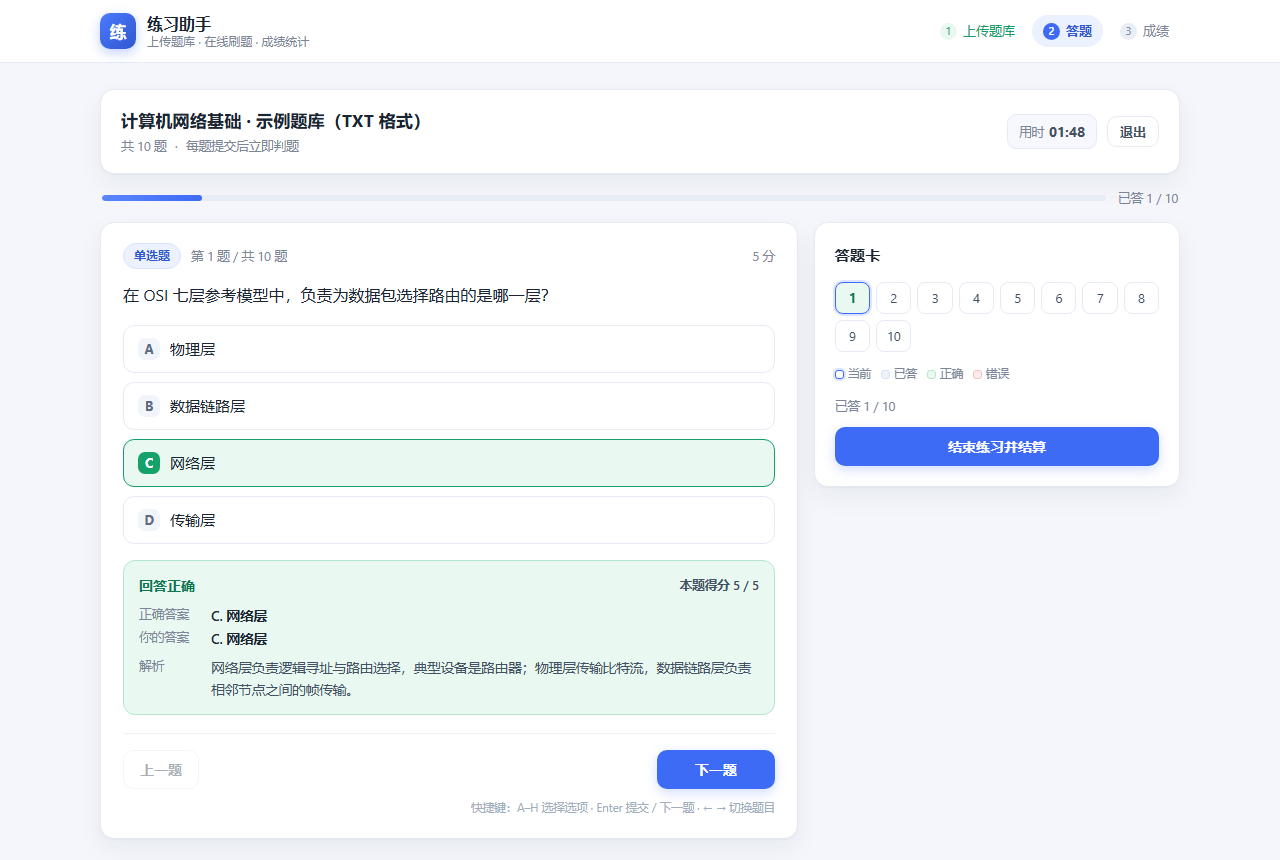
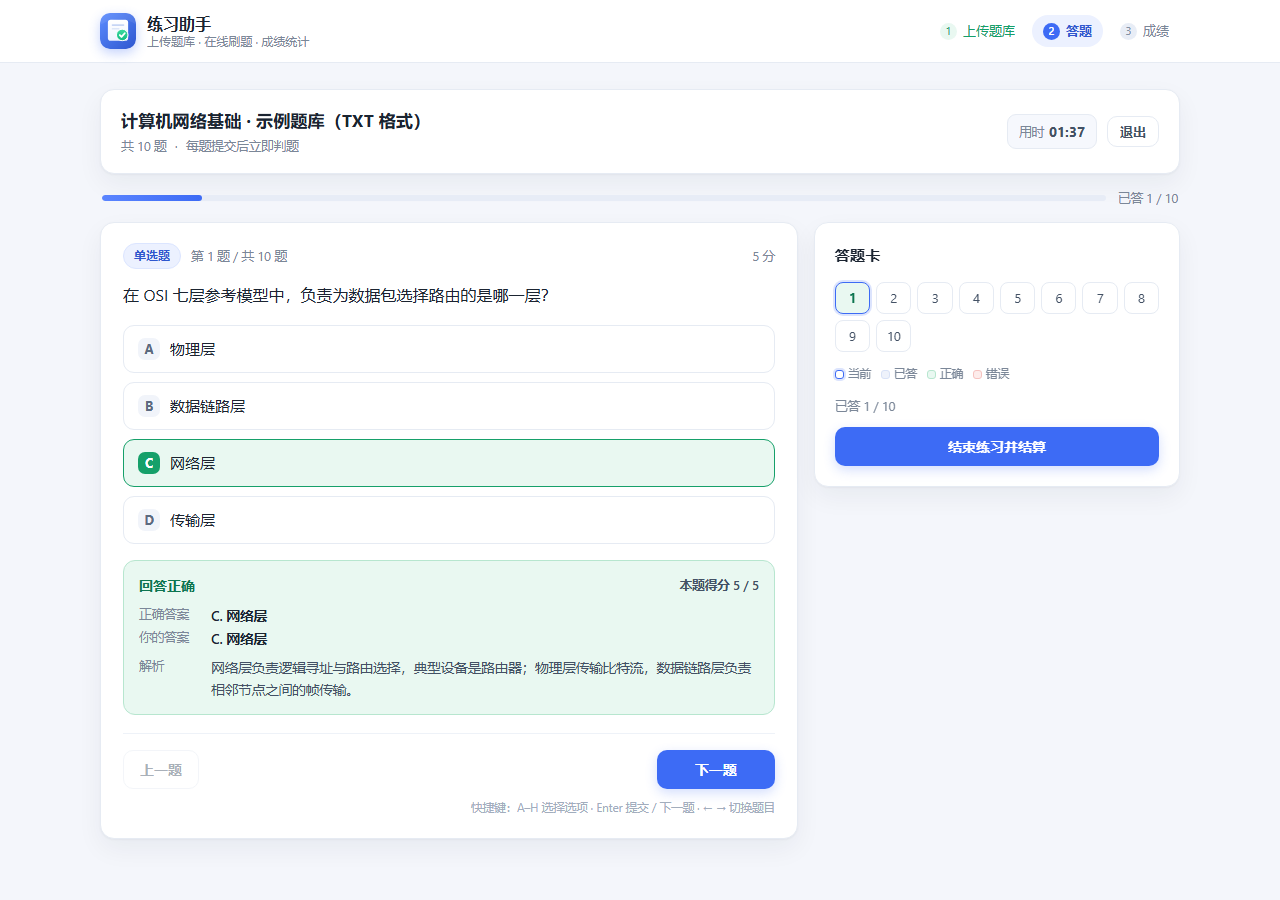
feat: 随机出题增加「选项顺序也随机打乱」附属项，更换站点图标，移除模板下载按钮
- 出题选「随机打乱」后解锁附属项，勾选则每题选项重新排列并按 A/B/C… 重新编号，答案字母同步映射，判题结果不变
- 练习页顶部标注「题目随机 · 选项乱序」，让设置生效可见
- 打乱在题目副本上进行，不污染原题库，重新练习/重做错题可反复打乱
- 站点图标由单字「练」改为「答题卡 + 对勾徽章」图形标，顶栏与 favicon 共用
- 删除「下载 JSON 模板 / 下载 TXT 模板」两个按钮及其下载逻辑，格式说明保留在页面内和 README
- 按新 UI 重拍三张 README 预览图

diff --git a/js/app.js b/js/app.js
@@ -66,6 +66,7 @@
     current: 0,
     mode: 'instant',     // instant | defer
     order: 'seq',
+    shuffleOptions: false, // 随机打乱题目的同时，是否也打乱每题选项顺序
     startTs: 0,
     elapsed: 0,
     timerId: null,
@@ -493,11 +494,54 @@
     showView('result');
   }
 
+  /** 练习用的题目副本：选项与答案都独立一份，便于单独打乱 */
+  function cloneQuestion(q) {
+    return {
+      id: q.id,
+      no: q.no,
+      type: q.type,
+      stem: q.stem,
+      options: (q.options || []).map((o) => ({ key: o.key, text: o.text })),
+      answers: q.type === 'blank' ? q.answers.map((alts) => alts.slice()) : q.answers.slice(),
+      explanation: q.explanation,
+      score: q.score
+    };
+  }
+
+  /**
+   * 打乱单题的选项顺序，并按新顺序重新编号 A/B/C…
+   * 答案字母同步映射，保证判题结果不变。判断题与填空题不动。
+   */
+  function shuffleQuestionOptions(q) {
+    if (q.type !== 'single' && q.type !== 'multiple') return;
+    if (!q.options || q.options.length < 2) return;
+
+    shuffle(q.options);
+
+    const oldToNew = {}; // 原字母 → 新字母
+    q.options.forEach((opt, i) => {
+      const newKey = String.fromCharCode(65 + i);
+      oldToNew[opt.key] = newKey;
+      opt.key = newKey;
+    });
+    q.answers = q.answers.map((k) => oldToNew[k] || k);
+  }
+
+  function modeSummary(shuffleOpt) {
+    const tags = [S.mode === 'instant' ? '每题提交后立即判题' : '全部作答后统一判题'];
+    if (S.order === 'random') tags.push(shuffleOpt ? '题目随机 · 选项乱序' : '题目随机');
+    return tags.join(' · ');
+  }
+
   function startPractice(list, label) {
     if (!list || !list.length) return;
 
-    S.questions = list.slice();
+    // 深拷贝一份，避免打乱选项时污染原始题库（「重新练习」还要用）
+    const shuffleOpt = S.order === 'random' && S.shuffleOptions;
+    S.questions = list.map(cloneQuestion);
     if (S.order === 'random') shuffle(S.questions);
+    if (shuffleOpt) S.questions.forEach(shuffleQuestionOptions);
+
     S.responses = S.questions.map(P.makeEmptyResponse);
     S.results = S.questions.map(() => null);
     S.current = 0;
@@ -505,7 +549,7 @@
 
     $('#practice-title').textContent = label || (S.bank ? S.bank.title : '练习');
     $('#practice-meta').textContent = '共 ' + S.questions.length + ' 题';
-    $('#mode-label').textContent = S.mode === 'instant' ? '每题提交后立即判题' : '全部作答后统一判题';
+    $('#mode-label').textContent = modeSummary(shuffleOpt);
 
     S.startTs = Date.now();
     startTimer();
@@ -717,16 +761,6 @@
 
     $('#btn-load-sample').addEventListener('click', loadSample);
 
-    $('#btn-dl-json').addEventListener('click', () => {
-      if (!window.QB_SAMPLES) return;
-      download('题库模板.json', JSON.stringify(window.QB_SAMPLES.json, null, 2), 'application/json');
-    });
-
-    $('#btn-dl-txt').addEventListener('click', () => {
-      if (!window.QB_SAMPLES) return;
-      download('题库模板.txt', window.QB_SAMPLES.txt, 'text/plain');
-    });
-
     $('#btn-dl-guide').addEventListener('click', () => {
       const src = document.getElementById('guide-source');
       if (!src) return;
@@ -737,9 +771,25 @@
     $$('input[name="mode"]').forEach((el) =>
       el.addEventListener('change', () => { if (el.checked) S.mode = el.value; })
     );
+
+    // 选项乱序是「随机打乱」的附属项，只在随机出题时可用
+    const chkShuffleOpts = $('#chk-shuffle-options');
+    const choiceShuffleOpts = $('#choice-shuffle-options');
+    const syncSubOption = () => {
+      const on = S.order === 'random';
+      chkShuffleOpts.disabled = !on;
+      choiceShuffleOpts.classList.toggle('is-off', !on);
+    };
+
     $$('input[name="order"]').forEach((el) =>
-      el.addEventListener('change', () => { if (el.checked) S.order = el.value; })
+      el.addEventListener('change', () => {
+        if (!el.checked) return;
+        S.order = el.value;
+        syncSubOption();
+      })
     );
+
+    chkShuffleOpts.addEventListener('change', () => { S.shuffleOptions = chkShuffleOpts.checked; });
 
     $('#btn-start').addEventListener('click', () => {
       if (!S.bank || !S.bank.questions.length) return;
@@ -747,8 +797,11 @@
       const checkedOrder = $('input[name="order"]:checked');
       S.mode = checkedMode ? checkedMode.value : 'instant';
       S.order = checkedOrder ? checkedOrder.value : 'seq';
+      S.shuffleOptions = chkShuffleOpts.checked;
       startPractice(S.bank.questions, S.bank.title);
     });
+
+    syncSubOption();
   }
 
   function bindPractice() {

diff --git a/css/style.css b/css/style.css
@@ -79,13 +79,12 @@ code {
 .brand-mark {
   width: 36px; height: 36px;
   border-radius: 10px;
-  background: linear-gradient(135deg, #4b7bff, #2f57cf);
-  color: #fff;
-  font-weight: 700;
-  font-size: 17px;
-  display: flex; align-items: center; justify-content: center;
+  overflow: hidden;
+  display: flex;
   box-shadow: 0 4px 12px rgba(61, 107, 245, .3);
 }
+
+.brand-mark img { width: 100%; height: 100%; display: block; }
 
 .brand-text { display: flex; flex-direction: column; line-height: 1.25; }
 .brand-text strong { font-size: 16px; }
@@ -288,6 +287,38 @@ code {
 
 .choice:has(input:checked) { border-color: var(--primary); background: var(--primary-soft); }
 .choice-sm { padding: 8px 12px; margin-bottom: 6px; }
+
+/* 附属项：从属于上一项，用折线标出层级 */
+.sub-choice {
+  position: relative;
+  margin-left: 20px;
+  margin-top: 2px;
+}
+
+.sub-choice::before {
+  content: "";
+  position: absolute;
+  left: -12px;
+  top: -9px;
+  width: 11px;
+  height: 24px;
+  border-left: 1.5px solid var(--line);
+  border-bottom: 1.5px solid var(--line);
+  border-bottom-left-radius: 7px;
+  pointer-events: none;
+}
+
+.sub-choice .choice-desc { margin-top: 2px; }
+
+/* 用 .choice 提权，压过 .choice:has(input:checked) 的选中配色 */
+.choice.sub-choice.is-off {
+  cursor: not-allowed;
+  background: #fbfcfe;
+  border-color: var(--line);
+}
+.choice.sub-choice.is-off:hover { background: #fbfcfe; border-color: var(--line); }
+.choice.sub-choice.is-off .choice-title { color: var(--muted); }
+.choice.sub-choice.is-off .choice-desc { color: #aab4c4; }
 
 .settings-tip { margin-top: 10px; font-size: 12px; color: var(--muted); line-height: 1.5; }
 

diff --git a/index.html b/index.html
@@ -18,7 +18,9 @@
 <header class="topbar">
   <div class="topbar-inner">
     <div class="brand">
-      <div class="brand-mark">练</div>
+      <div class="brand-mark">
+        <img src="assets/icon.svg" alt="" width="36" height="36" />
+      </div>
       <div class="brand-text">
         <strong>练习助手</strong>
         <span>上传题库 · 在线刷题 · 成绩统计</span>
@@ -55,8 +57,6 @@
 
         <div class="upload-actions">
           <button class="btn btn-ghost" id="btn-load-sample" type="button">载入示例题库</button>
-          <button class="btn btn-ghost" id="btn-dl-json" type="button">下载 JSON 模板</button>
-          <button class="btn btn-ghost" id="btn-dl-txt" type="button">下载 TXT 模板</button>
           <button class="btn btn-guide" id="btn-dl-guide" type="button">下载题库生成说明</button>
         </div>
 
@@ -99,6 +99,14 @@
           <label class="choice choice-sm">
             <input type="radio" name="order" value="random" />
             <span class="choice-body"><span class="choice-title">随机打乱</span></span>
+          </label>
+
+          <label class="choice choice-sm sub-choice is-off" id="choice-shuffle-options">
+            <input type="checkbox" id="chk-shuffle-options" disabled />
+            <span class="choice-body">
+              <span class="choice-title">选项顺序也随机打乱</span>
+              <span class="choice-desc">每题选项重新排列并重新编号</span>
+            </span>
           </label>
         </div>
 

diff --git a/js/sample-data.js b/js/sample-data.js
@@ -1,6 +1,6 @@
 /*!
  * sample-data.js —— 内置示例题库
- * 同时作为「下载模板」的内容来源，保证示例与文档一致。
+ * txt 用于页面上的「载入示例题库」；json 保留作格式参考，不再对外提供模板下载。
  */
 (function (root) {
   'use strict';

diff --git a/README.md b/README.md
@@ -24,10 +24,11 @@
 
 ## 核心特性
 
-- **题库就是一个文件** —— 支持 JSON 与 TXT 两种格式，一个文件装完整套题：题干、选项、答案、解析、分值。格式说明见[下文](#题库格式说明)，也可以直接点页面里的「下载 JSON 模板 / TXT 模板」拿样例。
+- **题库就是一个文件** —— 支持 JSON 与 TXT 两种格式，一个文件装完整套题：题干、选项、答案、解析、分值。格式说明见[下文](#题库格式说明)；想先看样例，点页面上的「载入示例题库」即可。
 - **不会做格式也没关系** —— 页面提供可下载的[《题库生成说明》](docs/题库生成说明.md)，连同 Word / PDF / 图片题目一起发给 AI，就能自动转成可导入的题库（详见[下文](#不会写题库让-ai-帮你生成)）。
 - **四种题型全覆盖** —— 单选题、多选题、判断题、填空题。填空题支持多个空，每个空还可以配置多个可接受答案（如「IP地址」或「IP 地址」都算对）。
 - **两种判题节奏** —— ① 每题提交后立即判题，当场看到对错、正确答案和解析；② 全部作答完再统一判题，答题过程不受打扰。
+- **出题可打乱** —— 默认按题库顺序；也可「随机打乱」题目顺序，并勾选附属项「选项顺序也随机打乱」，让每道题的选项重新排列、重新编号（答案字母自动跟着映射，判题不受影响）。
 - **成绩与错题复盘** —— 总分/满分、正确率、正确/错误/未作答数量、用时一目了然；「全部 / 错题 / 未作答 / 正确」四类筛选，逐题回看你的答案、正确答案与解析；支持一键「重做错题」。
 - **顺手的小细节** —— 答题卡跳题、进度条、计时器、键盘快捷键（`A`–`H` 选择、`Enter` 提交/下一题、`←` `→` 切题）、交卷前对未答题二次确认。
 - **零依赖零构建** —— 原生 HTML/CSS/JavaScript，没有框架、没有打包工具、没有 CDN 依赖，断网也能跑；数据全部留在浏览器内存里，不上传任何内容。
@@ -48,7 +49,7 @@ npx serve .
 
 然后访问 `http://127.0.0.1:8765/`。
 
-**没有题库？** 点击页面上的「载入示例题库」，会加载内置的 10 道示例题（四种题型齐全，含解析），可先跑一遍完整流程；也可以点「下载 JSON 模板 / TXT 模板」拿到格式样例，改成自己的题。
+**没有题库？** 点击页面上的「载入示例题库」，会加载内置的 10 道示例题（四种题型齐全，含解析），可先跑一遍完整流程，再照它的样子改成自己的题。
 
 ---
 
@@ -233,7 +234,7 @@ Practice Assistant/
 │   └── style.css         全部样式
 ├── js/
 │   ├── parser.js         题库解析 + 判题逻辑（不依赖 DOM，可单独测试）
-│   ├── sample-data.js    内置示例题库（同时作为模板下载源）
+│   ├── sample-data.js    内置示例题库（「载入示例题库」的数据源）
 │   └── app.js            界面交互、答题流程、成绩统计
 ├── docs/
 │   └── 题库生成说明.md   「下载题库生成说明」按钮导出的原文
